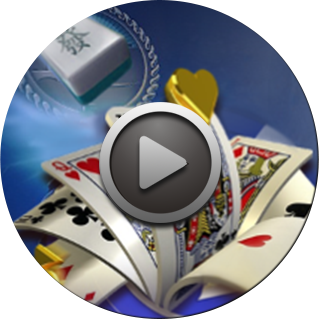
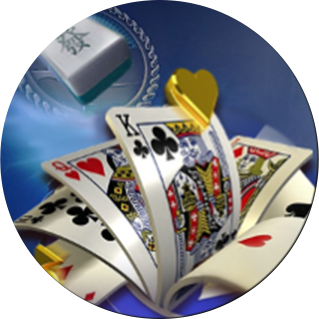
更新官网

Changed region(s): [[0.2821, 0.3103, 0.7053, 0.7335]]

diff --git a/NaWeb/src/components/product.vue b/NaWeb/src/components/product.vue
@@ -9,9 +9,9 @@
         <li v-for="(item, index) in Products" :key="index" @click="clickShow(item.videoUrl)">
           <i :style="`background:url(${item.tag}) no-repeat;background-size: 100%`"></i>
           <!-- :href='`/about.html?type=${item.type}&title=${item.title}`'  -->
-          <!-- <div class="playIcon">
+          <div class="playIcon">
             <img src="/static/playIcon.png" />
-          </div>  -->
+          </div> 
           <a>
             <img :src="item.imgUrl" alt="">
           </a>
@@ -94,6 +94,7 @@ export default {
         position: absolute;
         top: 25%;
         width: 100%;
+        opacity: .9;
         img {
           width: 30%;
         }
